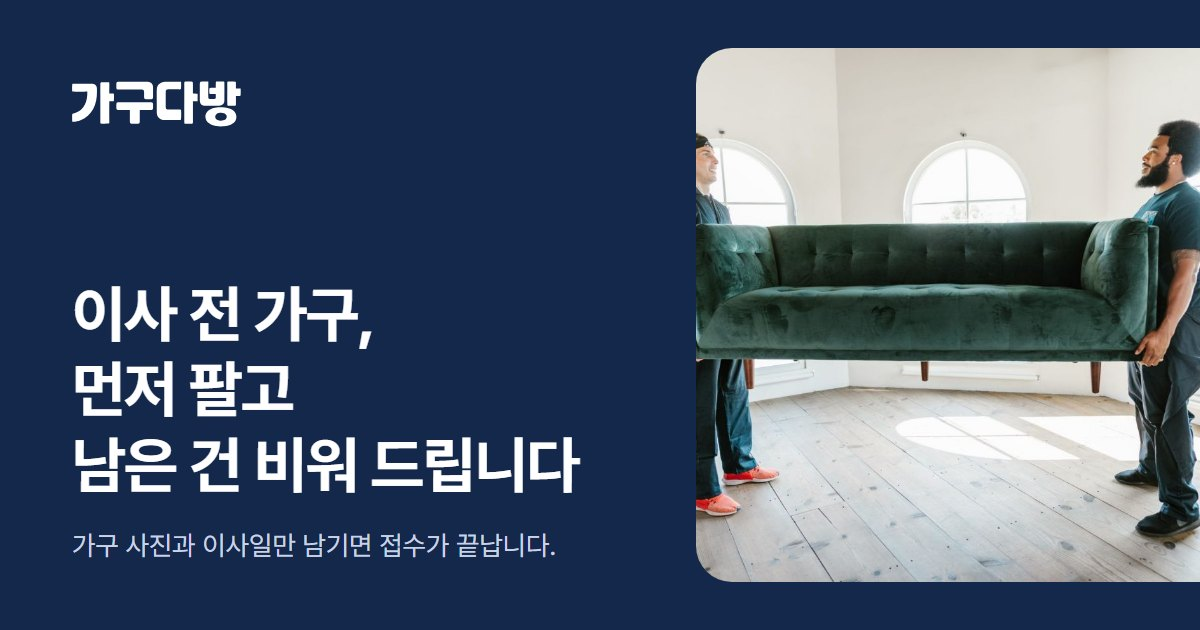
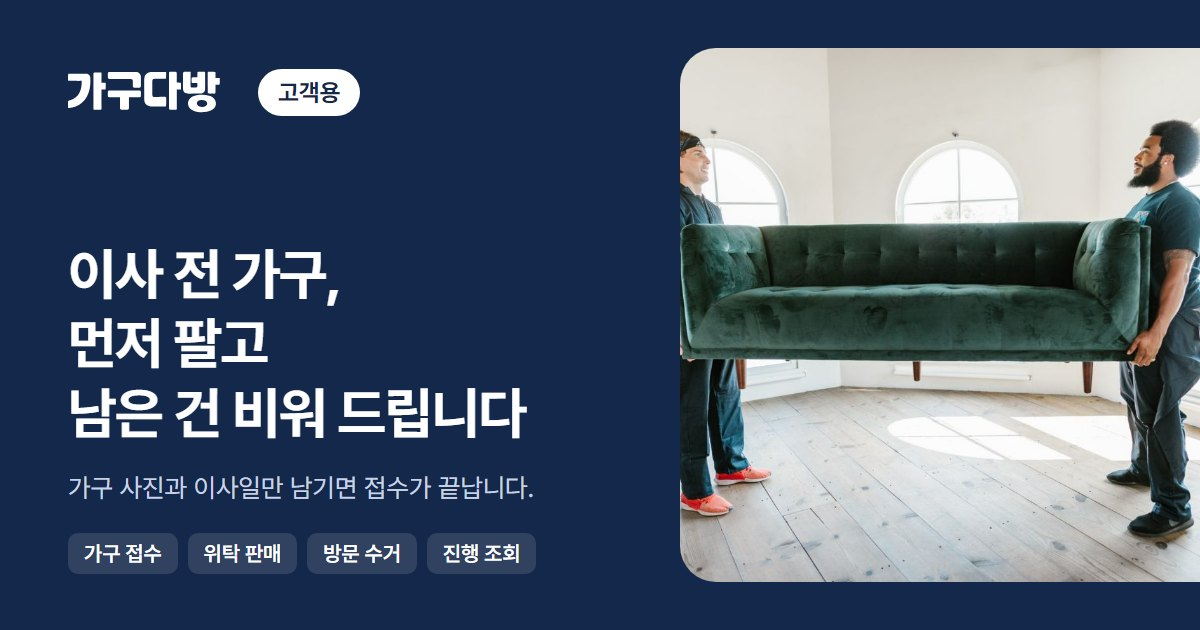
feat: 고객용·관리자용 링크 공유 그림을 따로 만들어 등록

diff --git a/public/admin.html b/public/admin.html
@@ -5,6 +5,17 @@
 <meta name="viewport" content="width=device-width, initial-scale=1, viewport-fit=cover">
 <title>가구다방 파트너스 스튜디오</title>
 <meta name="robots" content="noindex, nofollow">
+<meta name="description" content="가구다방 관리자용 화면입니다. 접수된 가구를 확인하고 처리 방식, 상태, 일정을 정합니다.">
+<!-- 링크를 공유할 때 뜨는 정보 (관리자용 그림). 주소가 바뀌면 같이 고친다 -->
+<meta property="og:type" content="website">
+<meta property="og:site_name" content="가구다방">
+<meta property="og:title" content="가구다방 관리자 — 접수 관리">
+<meta property="og:description" content="접수된 가구를 확인하고 처리 방식, 상태, 일정을 정하는 운영 화면입니다.">
+<meta property="og:url" content="https://gagudabang.vercel.app/admin.html">
+<meta property="og:image" content="https://gagudabang.vercel.app/assets/brand/og-admin.jpg">
+<meta property="og:image:width" content="1200">
+<meta property="og:image:height" content="630">
+<meta name="twitter:card" content="summary_large_image">
 <link rel="icon" type="image/svg+xml" href="/assets/brand/icon.svg">
 <link rel="manifest" href="/manifest.webmanifest">
 <meta name="theme-color" content="#14284b">

diff --git a/public/index.html b/public/index.html
@@ -11,7 +11,7 @@
 <meta property="og:title" content="가구다방 — 이사 전 가구 위탁 판매 · 방문 비움">
 <meta property="og:description" content="가구 사진과 이사일만 남기면 접수가 끝납니다. 팔 수 있는 가구는 이사 전까지 위탁 판매하고, 남은 가구는 약속한 날 방문해 수거합니다.">
 <meta property="og:url" content="https://gagudabang.vercel.app/">
-<meta property="og:image" content="https://gagudabang.vercel.app/assets/brand/og-image.jpg">
+<meta property="og:image" content="https://gagudabang.vercel.app/assets/brand/og-image.jpg?v=2">
 <meta property="og:image:width" content="1200">
 <meta property="og:image:height" content="630">
 <meta name="twitter:card" content="summary_large_image">
